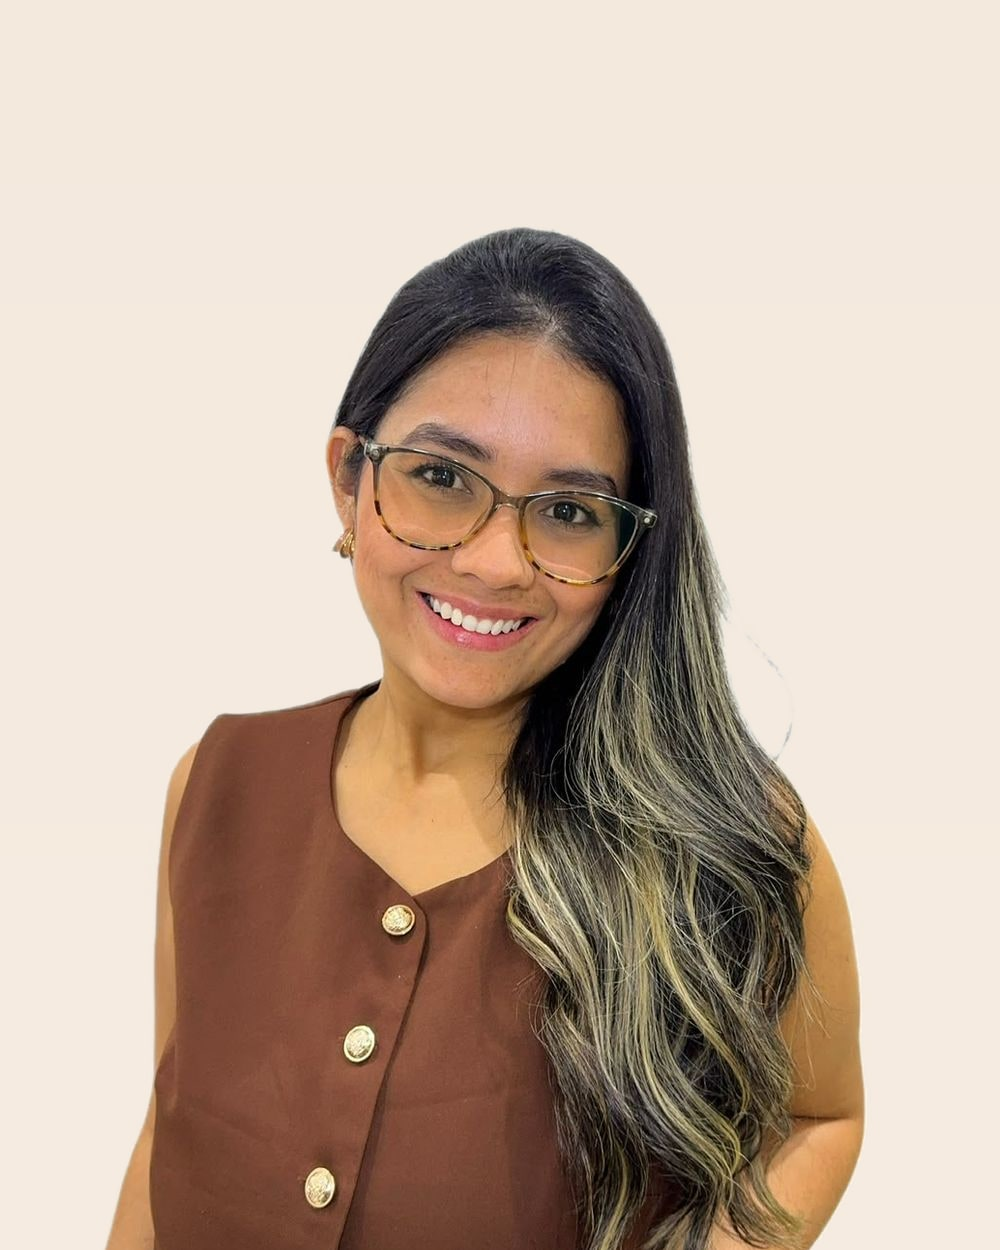
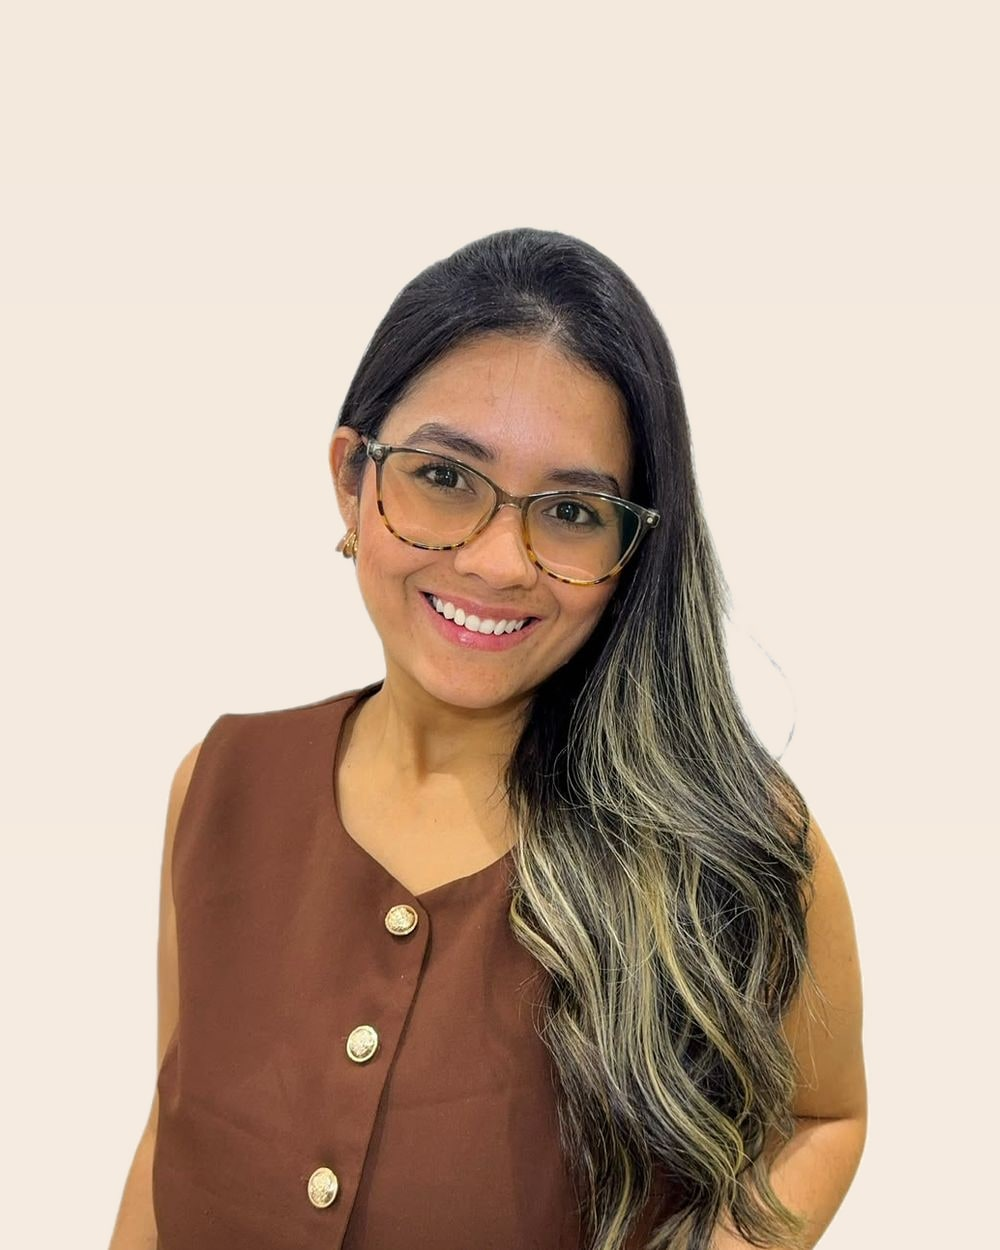
Troca a foto do Sobre mim pela segunda foto
A capa continua com a primeira foto, em primeiro plano ate o terceiro
botao da camisa. O Sobre mim recebe a foto de bracos cruzados,
enquadrada no busto e com o fundo ajustado para o creme, para as duas
imagens nao ficarem repetitivas.

Ajusta o texto alternativo da foto do Sobre.

diff --git a/index.html b/index.html
@@ -1222,9 +1222,9 @@ section{padding:68px 0;}
         <span class="cafe-selo" aria-hidden="true">☕</span>
         <picture>
           <source srcset="img/thayane-sobre.jpg" type="image/jpeg">
-          <img src="img/thayane-sobre.jpg" alt="Retrato de Thayane Teixeira, UGC Creator, usando óculos de armação tartan" width="1000" height="1250" loading="lazy">
+          <img src="img/thayane-sobre.jpg" alt="Thayane Teixeira, UGC Creator, sorrindo com os braços cruzados" width="1000" height="1250" loading="lazy">
         </picture>
-        <figcaption>Retrato &middot; 4:5</figcaption>
+        <figcaption>Thayane Teixeira &middot; UGC Creator</figcaption>
       </figure>
 
       <div class="ficha">
